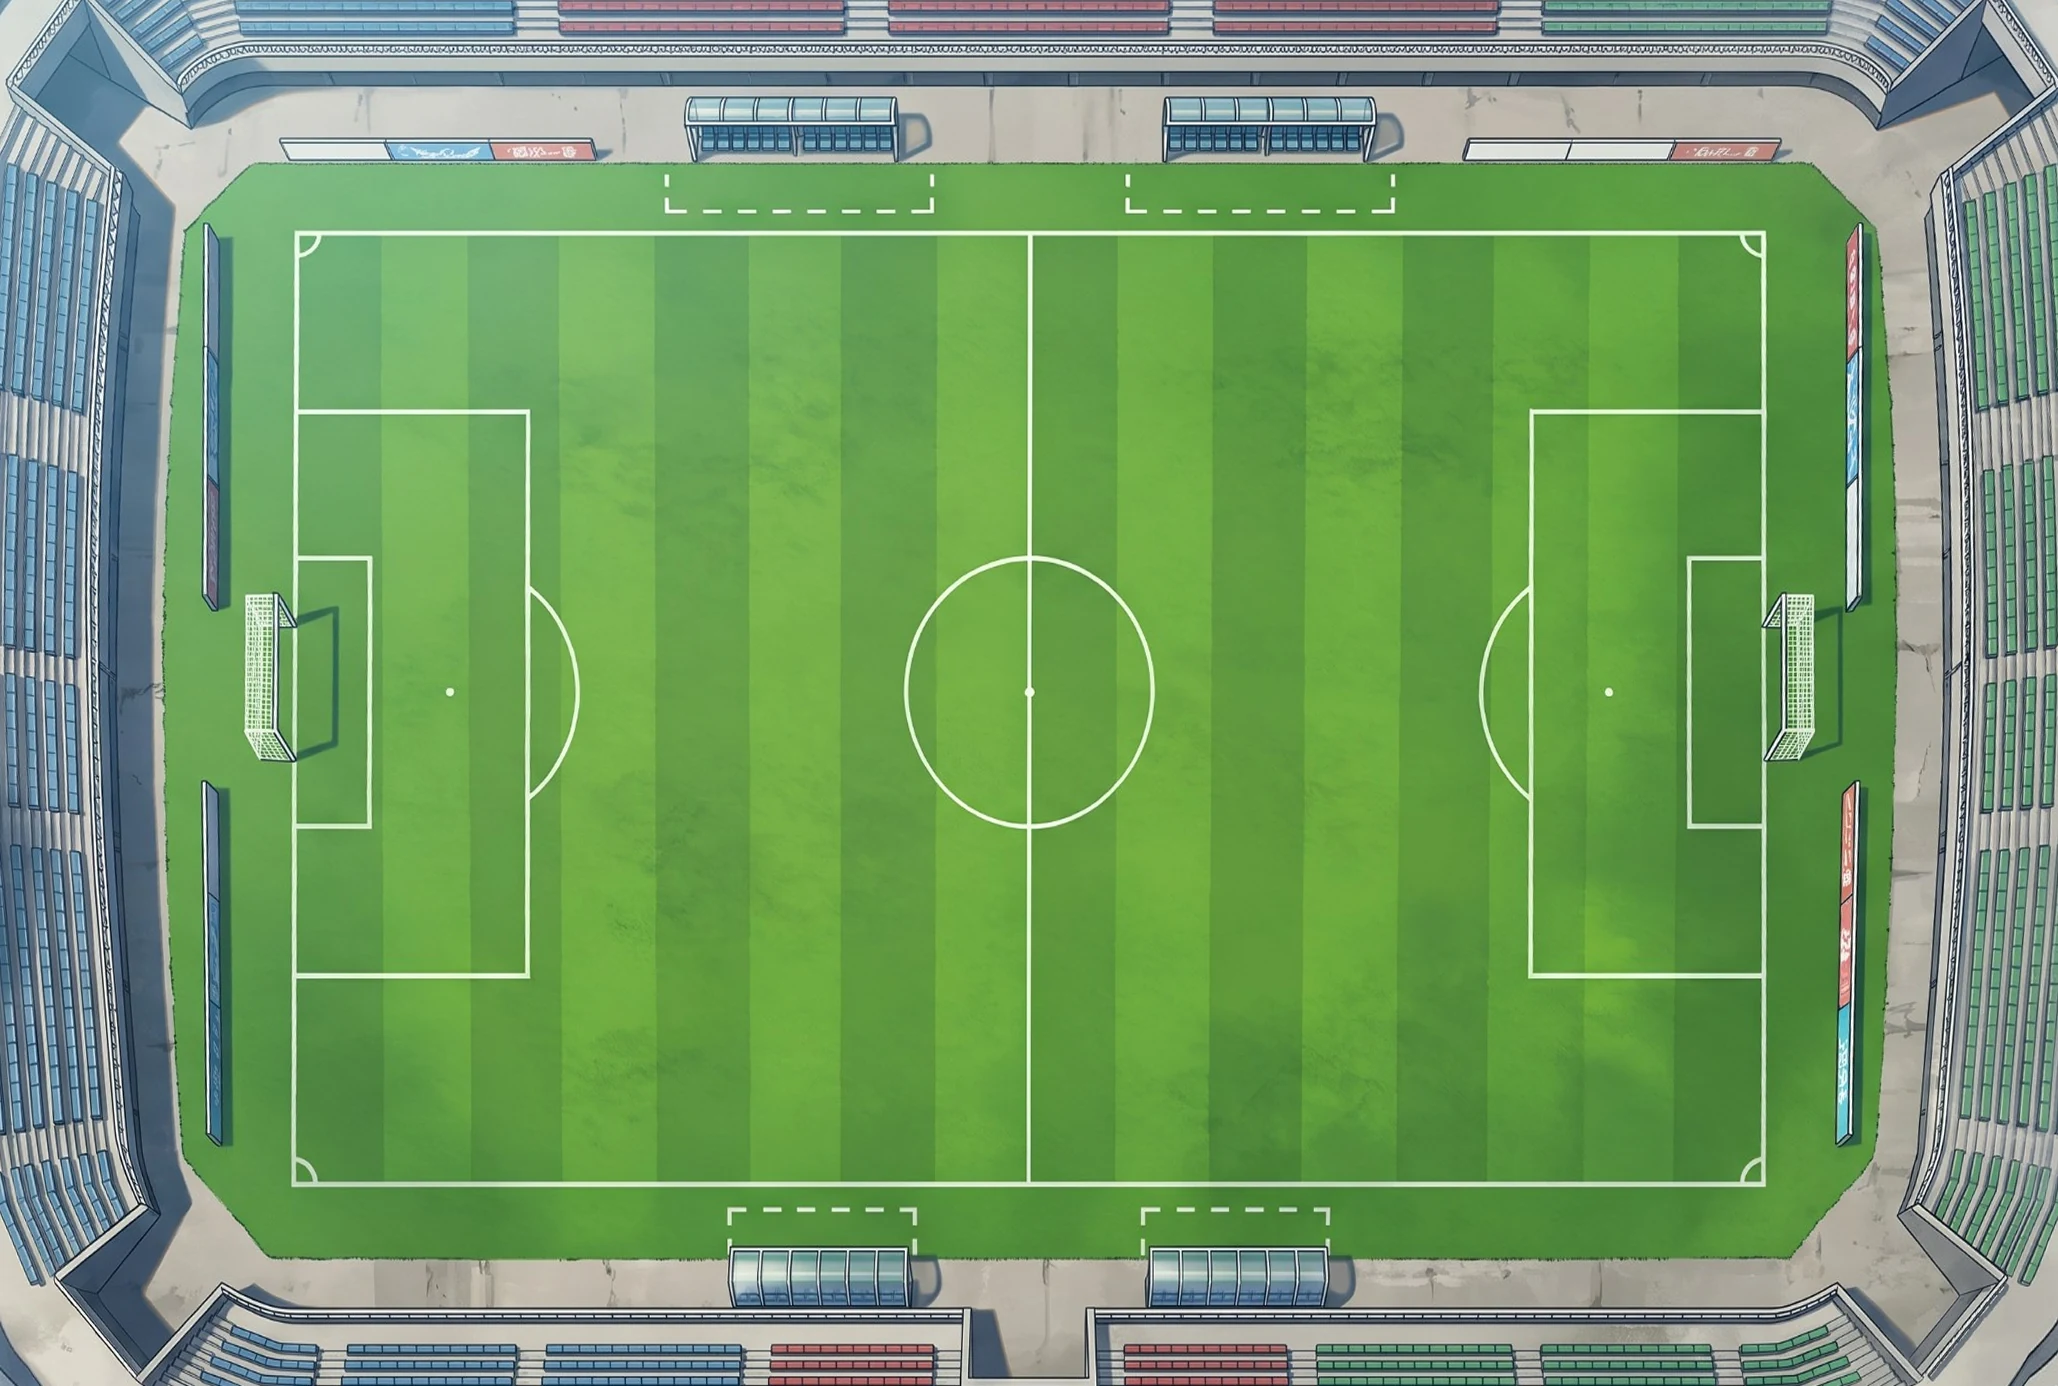
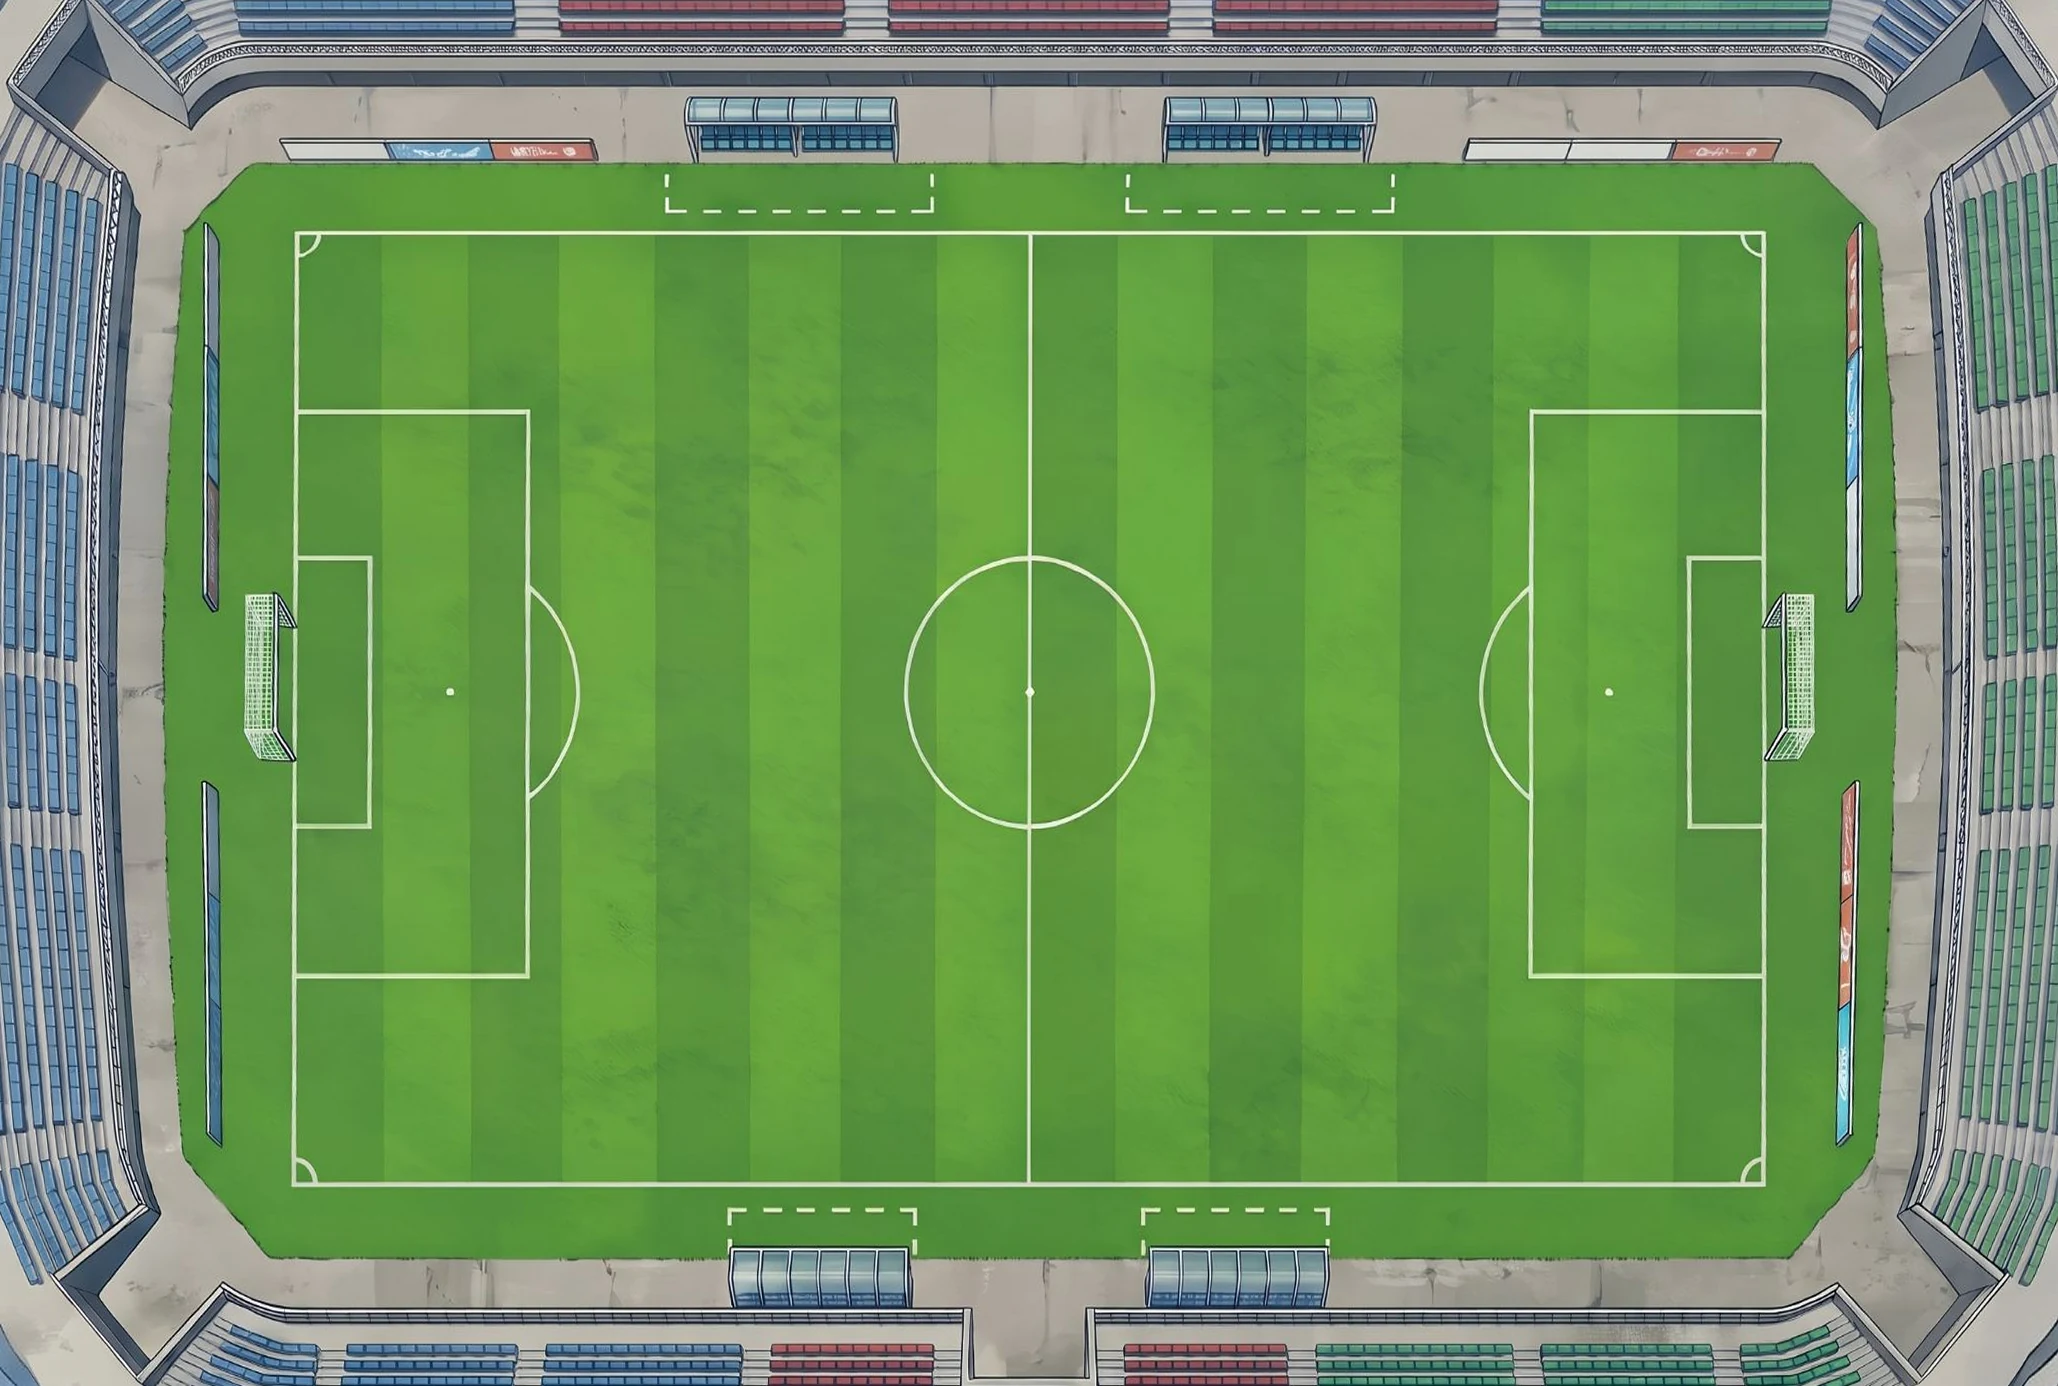
Estadio: base sin sombras; las sombras se calculan según la hora (cortas a mediodía, largas al atardecer, focos de noche)
Claude-Session: https://claude.ai/code/session_01WRVFSLSbn8JSFQhYwgTVQi

diff --git a/js/stadiumgl.js b/js/stadiumgl.js
@@ -75,7 +75,7 @@ void main(){
   float sh = 0.;
   vec2 st = -L.xy * vec2(1., aspect) * 0.007;
   for (int i=1;i<=12;i++){ float hh = texture2D(tH, q - st*float(i)).r; sh = max(sh, clamp((hh - h - float(i)*0.02)*4., 0., 1.)); }
-  float lit = 1. + rel*0.9 - sh*0.38;
+  float lit = 1. + rel*0.9 - sh*0.5;
   vec3 c = col * lit * tint * mix(1., 0.5, night);
   if (night > 0.01) {
     vec2 a = vec2(uv.x, uv.y/aspect);
@@ -151,7 +151,11 @@ void main(){
     gl.uniform3f(u.tint, tint[0], tint[1], tint[2]);
     gl.viewport(0, 0, cv.width, cv.height);
     gl.uniform2f(u.tilt, o.tilt.x, o.tilt.y);
-    gl.uniform3f(u.sun, Math.cos(a) * 0.55 - o.tilt.x * 0.35, Math.sin(a) * 0.45 - o.tilt.y * 0.35, dusk ? 0.32 : 0.8);
+    // Sol según la hora: a mediodía alto (sombras cortas); por la tarde cada vez más bajo (sombras largas que crecen); de noche, la luz de los focos
+    const prog = Math.min(1, (o.min || 0) / 90);
+    const el = night ? 0.6 : dusk ? 0.42 - prog * 0.24 : 0.9 - prog * 0.08;
+    const az = (night ? -2.2 : dusk ? 0.35 : -0.6 + prog * 0.5) + a * 0.15;
+    gl.uniform3f(u.sun, Math.cos(az) * (1 - el) - o.tilt.x * 0.3, Math.sin(az) * (1 - el) - o.tilt.y * 0.3, el);
     gl.uniform1f(u.t, o.t);
     gl.uniform1f(u.night, o.dark != null ? o.dark : night ? 1 : 0);
     const w = o.weather || 'despejado';

diff --git a/js/pitch.js b/js/pitch.js
@@ -2119,7 +2119,7 @@
       g.x += (g.tx - g.x) * 0.08; g.y += (g.ty - g.y) * 0.08;
       const min = this.m.min || 0;
       const dark = this.st.time === 'noche' ? 1 : this.st.time === 'tarde' ? clamp((min - 50) / 40, 0, 0.8) : 0;
-      return TL.StadiumGL.render({ VIEW, L, Wd, t: this.t, tilt: g, time: this.st.time, dark, weather: this.st.weather });
+      return TL.StadiumGL.render({ VIEW, L, Wd, t: this.t, tilt: g, time: this.st.time, dark, min, weather: this.st.weather });
     }
 
     _drawLoading() {
